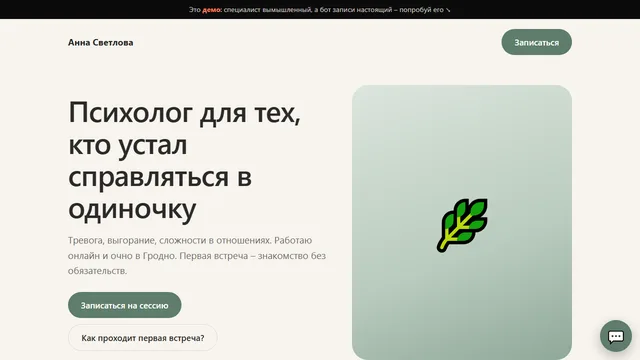
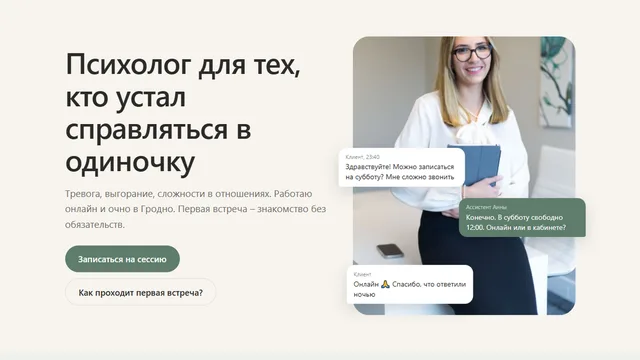
Demo psiholog: new cover and OG preview from redesigned page

diff --git a/demo/psiholog/index.html b/demo/psiholog/index.html
@@ -7,7 +7,7 @@
 <meta name="description" content="Демо-визитка психолога с ботом записи. Пример от Натальи Василенко: как сделать, чтобы клиенты вас находили.">
 <meta property="og:title" content="Вас не находят клиенты? Посмотрите, как это может выглядеть">
 <meta property="og:description" content="Живой пример визитки психолога с ботом записи. Попробуйте сами.">
-<meta property="og:image" content="https://vasilenkan72.github.io/portfolio/assets/img/cases/demo-psiholog-og.jpg">
+<meta property="og:image" content="https://vasilenkan72.github.io/portfolio/assets/img/cases/demo-psiholog-og.jpg?v=2">
 <meta property="og:url" content="https://vasilenkan72.github.io/portfolio/demo/psiholog/">
 <meta name="robots" content="noindex">
 <link rel="icon" href="../../assets/img/favicon.svg" type="image/svg+xml">

diff --git a/assets/js/data.js b/assets/js/data.js
@@ -109,7 +109,7 @@ const PROJECTS = [
     },
     tech: ['HTML/CSS', 'JavaScript', 'Бот записи', 'GitHub Pages'],
     link: 'demo/psiholog/',
-    image: 'assets/img/cases/demo-psiholog-cover-sm.webp',
+    image: 'assets/img/cases/demo-psiholog-cover-sm.webp?v=2',
   },
   {
     id: 12,
